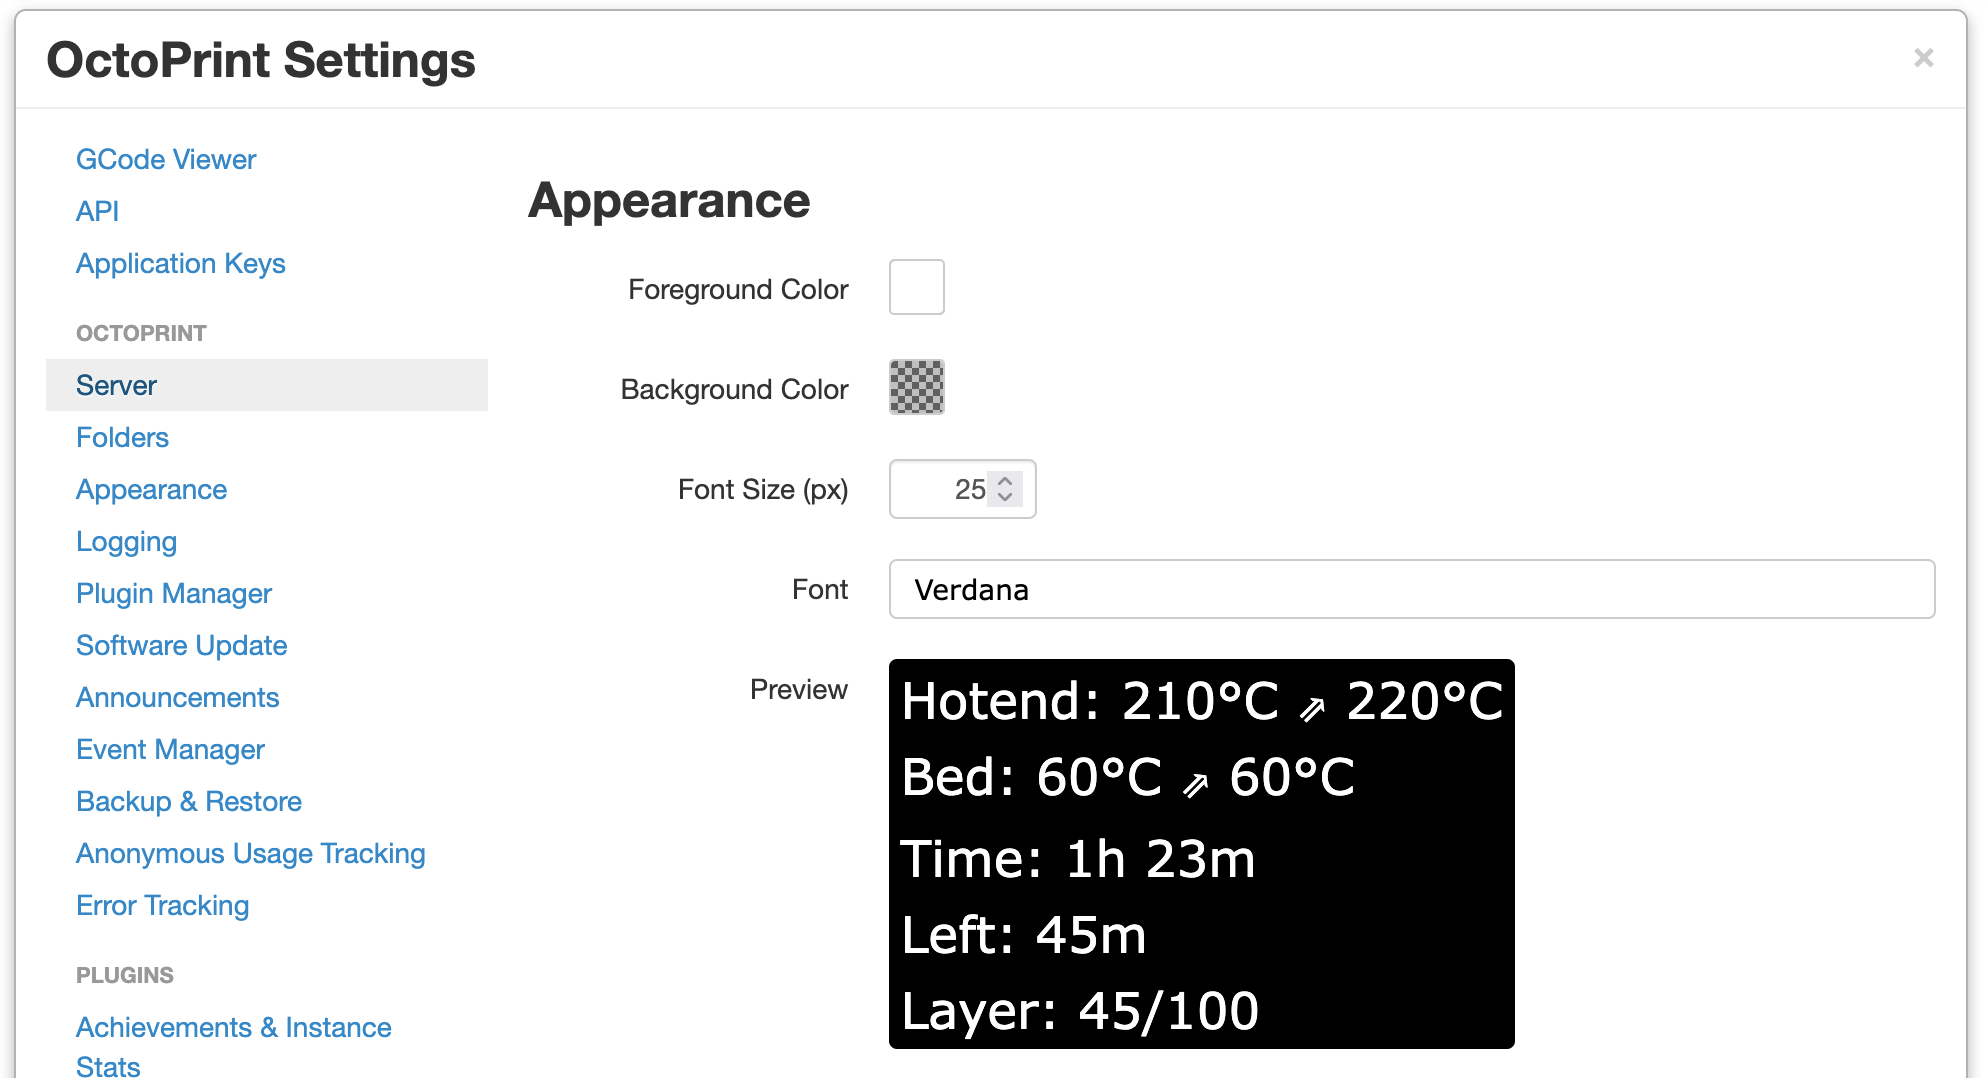
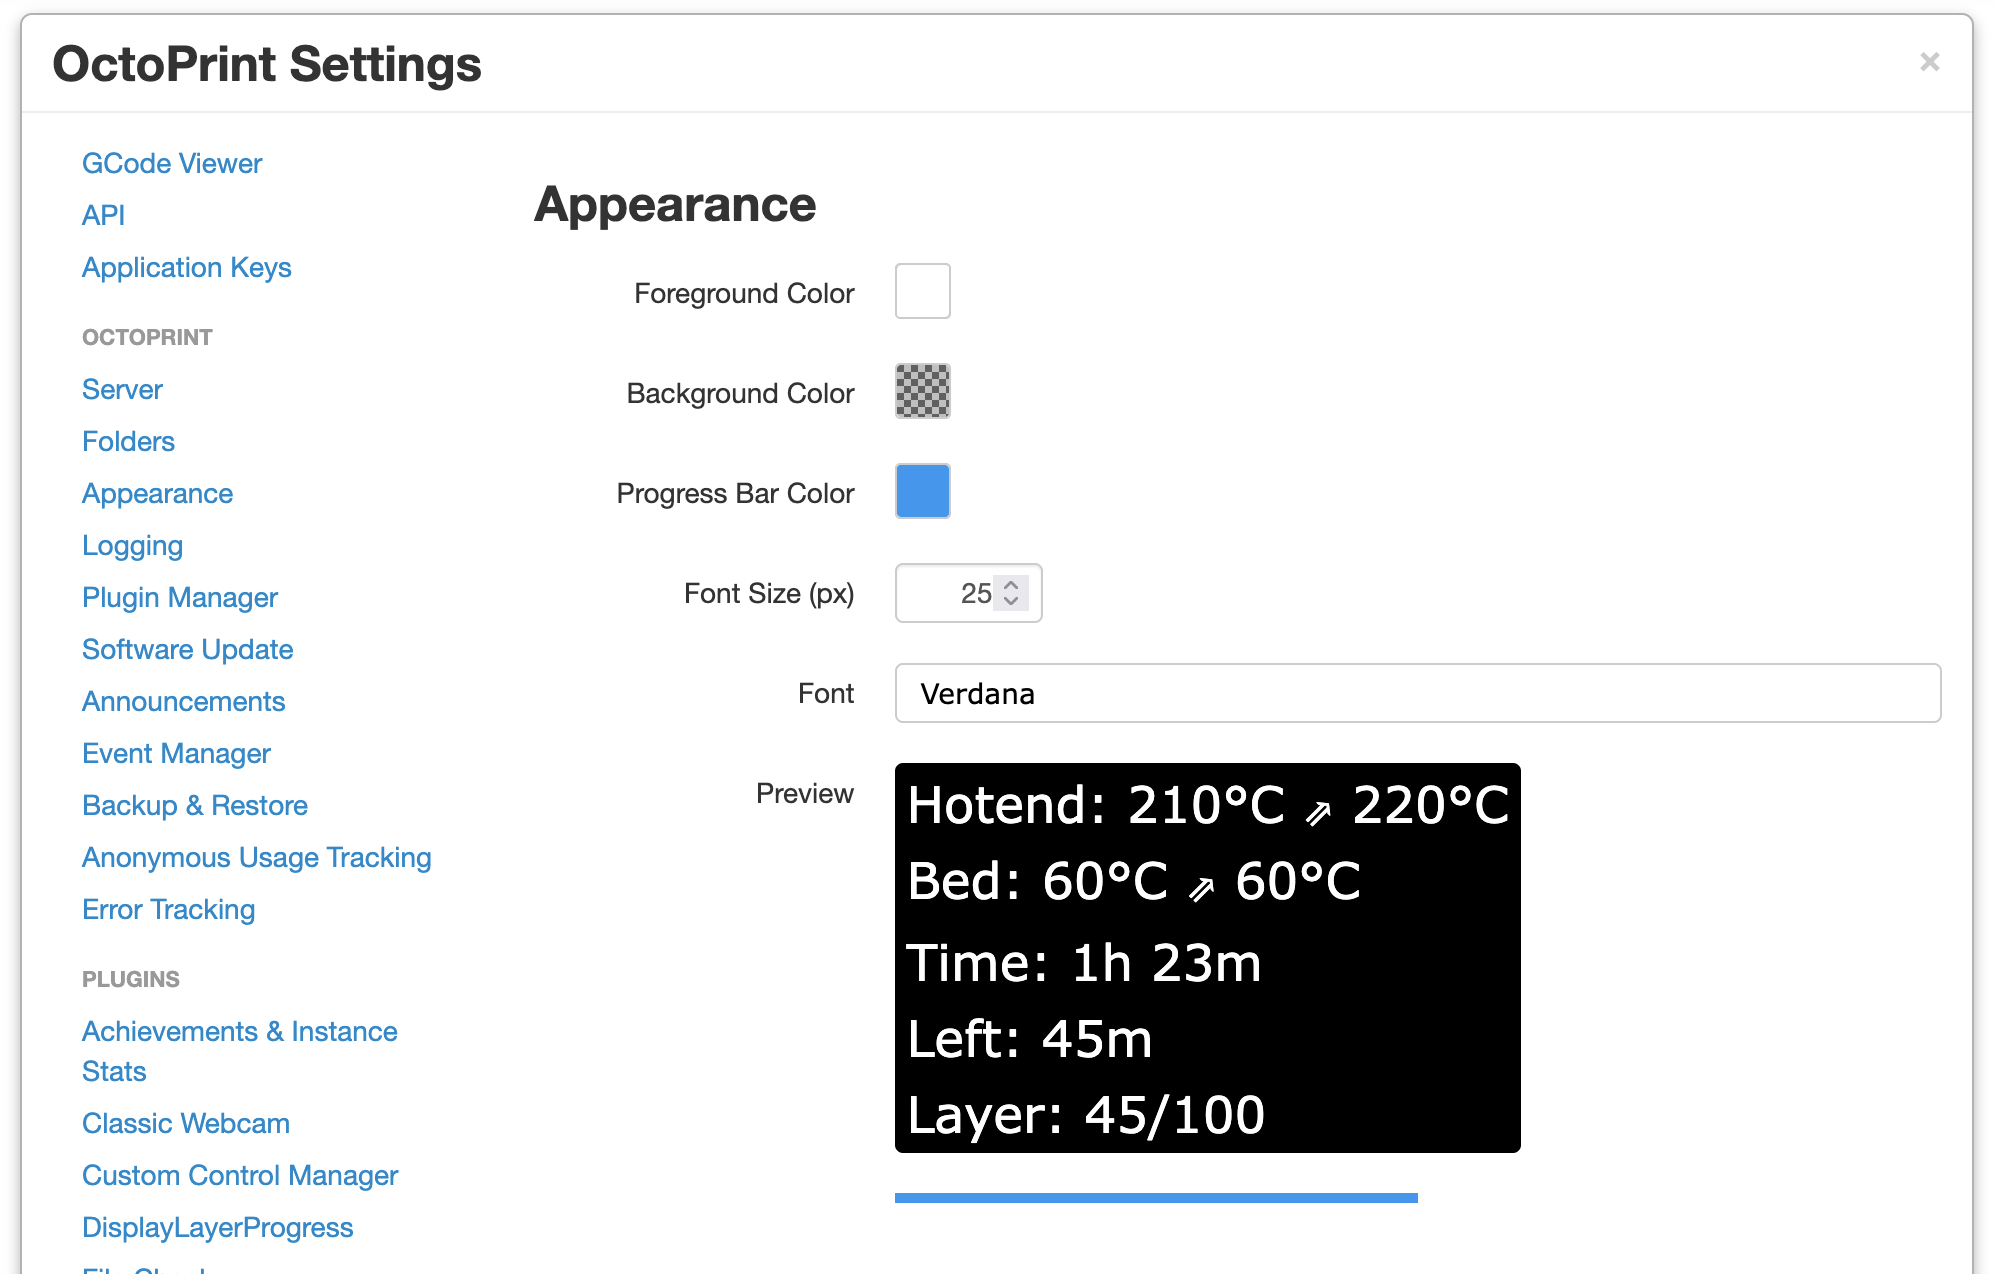
feat: add progress bar color picker

Changed region(s): [[0.0, 0.0, 0.9668, 1.0], [0.3742, 0.5204, 0.9668, 0.9796], [0.2495, 0.1531, 0.5302, 0.4898]]

diff --git a/octoprint_fullscreen/static/js/helpers.js b/octoprint_fullscreen/static/js/helpers.js
@@ -64,6 +64,8 @@ class OfsHelpers {
       this.viewModel.settings.settings.plugins.octoprint_fullscreen.foreground_color;
     this.viewModel.backgroundColor =
       this.viewModel.settings.settings.plugins.octoprint_fullscreen.background_color;
+    this.viewModel.progressBarColor =
+      this.viewModel.settings.settings.plugins.octoprint_fullscreen.progress_bar_color;
     this.viewModel.offsetLeftMaximised =
       this.viewModel.settings.settings.plugins.octoprint_fullscreen.offset_left_maximised;
     this.viewModel.offsetTopMaximised =
@@ -86,6 +88,10 @@ class OfsHelpers {
       this.updatePreview();
     });
     this.viewModel.backgroundColor.subscribe(() => {
+      this.applyStyles();
+      this.updatePreview();
+    });
+    this.viewModel.progressBarColor.subscribe(() => {
       this.applyStyles();
       this.updatePreview();
     });
@@ -136,6 +142,15 @@ class OfsHelpers {
       top: `${offsetTop}px`,
       left: `${offsetLeft}px`,
     });
+
+    // Apply progress bar color to the actual progress bar element
+    const $progressBar = $('#fullscreen-progress-bar .bar');
+    if ($progressBar.length > 0) {
+      $progressBar.css({
+        'background-color': this.viewModel.progressBarColor(),
+        'background-image': 'none'
+      });
+    }
   }
 
   /**
@@ -278,6 +293,7 @@ class OfsHelpers {
   createPickrs() {
     this.createPickrFg();
     this.createPickrBg();
+    this.createPickrProgressBar();
   }
 
   /**
@@ -398,6 +414,64 @@ class OfsHelpers {
     });
   }
 
+  /**
+   * Initialise and configure the Pickr color picker for the progress bar color.
+   */
+  createPickrProgressBar() {
+    const pickerElementProgress = document.querySelector('#octoprint_fullscreen_picker_progress');
+    if (!pickerElementProgress) {
+      console.warn('OfsHelpers: Pickr progress bar element not found');
+      return;
+    }
+
+    // eslint-disable-next-line no-undef
+    const pickrProgress = ofsPickr.create({
+      el: '#octoprint_fullscreen_picker_progress',
+      id: 'octoprint_fullscreen_pickr_instance_progress',
+      theme: 'nano',
+      default: this.viewModel.settings.settings.plugins.octoprint_fullscreen.progress_bar_color(),
+
+      swatches: [
+        'rgb(244, 67, 54)',
+        'rgb(233, 30, 99)',
+        'rgb(156, 39, 176)',
+        'rgb(103, 58, 183)',
+        'rgb(63, 81, 181)',
+        'rgb(33, 150, 243)',
+        'rgb(3, 169, 244)',
+        'rgb(0, 188, 212)',
+        'rgb(0, 150, 136)',
+        'rgb(76, 175, 80)',
+        'rgb(139, 195, 74)',
+        'rgb(205, 220, 57)',
+        'rgb(255, 235, 59)',
+        'rgb(255, 193, 7)',
+      ],
+
+      components: {
+        preview: true,
+        hue: true,
+
+        interaction: {
+          hex: true,
+          cmyk: true,
+          input: true,
+          save: true,
+        },
+      },
+    });
+
+    pickrProgress.on('change', (color) => {
+      const rgbaString = color.toRGBA().toString(0);
+      this.viewModel.settings.settings.plugins.octoprint_fullscreen.progress_bar_color(rgbaString);
+      this.updatePreview();
+    });
+
+    pickrProgress.on('save', () => {
+      pickrProgress.hide();
+    });
+  }
+
   createFontPicker() {
     const $picker = $("#octoprint_fullscreen-font-picker");
     const $button = $picker.find('.ofs-font-picker-button');
@@ -447,19 +521,16 @@ class OfsHelpers {
     // Update colors
     const fgColor = settings.foreground_color() || '#ffffff';
     const bgColor = settings.background_color() || '#000000';
+    const progressColor = settings.progress_bar_color() || 'rgba(33, 150, 243, 1)';
 
     $overlay.css('color', fgColor);
     $preview.css('background', bgColor);
 
-    // Update overlay background
-    $overlay.find('span').css('background', this.hexToRgba(fgColor, 0.3));
-  }
-
-  hexToRgba(hex, alpha) {
-    const r = parseInt(hex.slice(1, 3), 16);
-    const g = parseInt(hex.slice(3, 5), 16);
-    const b = parseInt(hex.slice(5, 7), 16);
-    return `rgba(${r}, ${g}, ${b}, ${alpha})`;
+    // Update progress bar color in preview
+    $('.ofs-preview-bar').css({
+      'background-color': progressColor,
+      'background-image': 'none'
+    });
   }
 
   /**

diff --git a/octoprint_fullscreen/static/css/fullscreen.css b/octoprint_fullscreen/static/css/fullscreen.css
@@ -167,13 +167,17 @@ _:-webkit-full-screen,
   left: 0;
   width: 100%;
   height: 5px;
-  background: transparent !important;
+  background: transparent;
   bottom: 0;
   margin: 0;
   -webkit-border-radius: 0;
   -ms-border-radius: 0;
   border-radius: 0;
   z-index: -1;
+}
+
+#fullscreen-progress-bar .bar {
+  background-image: none !important;
 }
 .inlineFullscreen {
   overflow: hidden;
@@ -299,4 +303,16 @@ _:-webkit-full-screen,
 
 .ofs-preview-print-info {
   margin-top: 5px;
+}
+
+.ofs-preview-progress {
+  width: 100%;
+  height: 5px;
+  margin-top: 20px;
+}
+
+.ofs-preview-bar {
+  height: 100%;
+  width: 50%;
+  background: rgba(33, 150, 243, 1);
 }

diff --git a/octoprint_fullscreen/__init__.py b/octoprint_fullscreen/__init__.py
@@ -11,6 +11,7 @@ class FullscreenPlugin(octoprint.plugin.SettingsPlugin,
             "font_size": 25,
             "foreground_color": "rgba(255, 255, 255, 1)",
             "background_color": "rgba(0, 0, 0, 0.25)",
+            "progress_bar_color": "rgba(33, 150, 243, 1)",
             "offset_left_maximised": -1,
             "offset_top_maximised": -1,
             "offset_left_fullscreen": -1,
@@ -30,6 +31,9 @@ class FullscreenPlugin(octoprint.plugin.SettingsPlugin,
             ),
             "background_color": self._settings.get(
                 ["background_color"]
+            ),
+            "progress_bar_color": self._settings.get(
+                ["progress_bar_color"]
             ),
             "offset_left_maximised": self._settings.get(
                 ["offset_left_maximised"]

diff --git a/README.md b/README.md
@@ -28,9 +28,9 @@ If the DisplayLayerProgress plugin is installed, it will also display the layer 
 - **Fullscreen toggle button**: Button to switch between maximized and true fullscreen modes
 - **Font size adjustment**: Font size can be changed in the settings dialog
 - **Font family selection**: Choose from multiple font families including monospace, serif, and sans-serif options
-- **Color adjustment**: Foreground and background color can be changed in the settings dialog
+- **Color adjustments**: Foreground, background and progress bar colors can be changed in the settings dialog
 - **Pause/Resume button**: Click to pause/resume your print
-- **Preview in settings**: See how your settings will look before saving
+- **Preview in settings**: See how the overlay and progress bar will look before saving
 
 ## Setup
 
